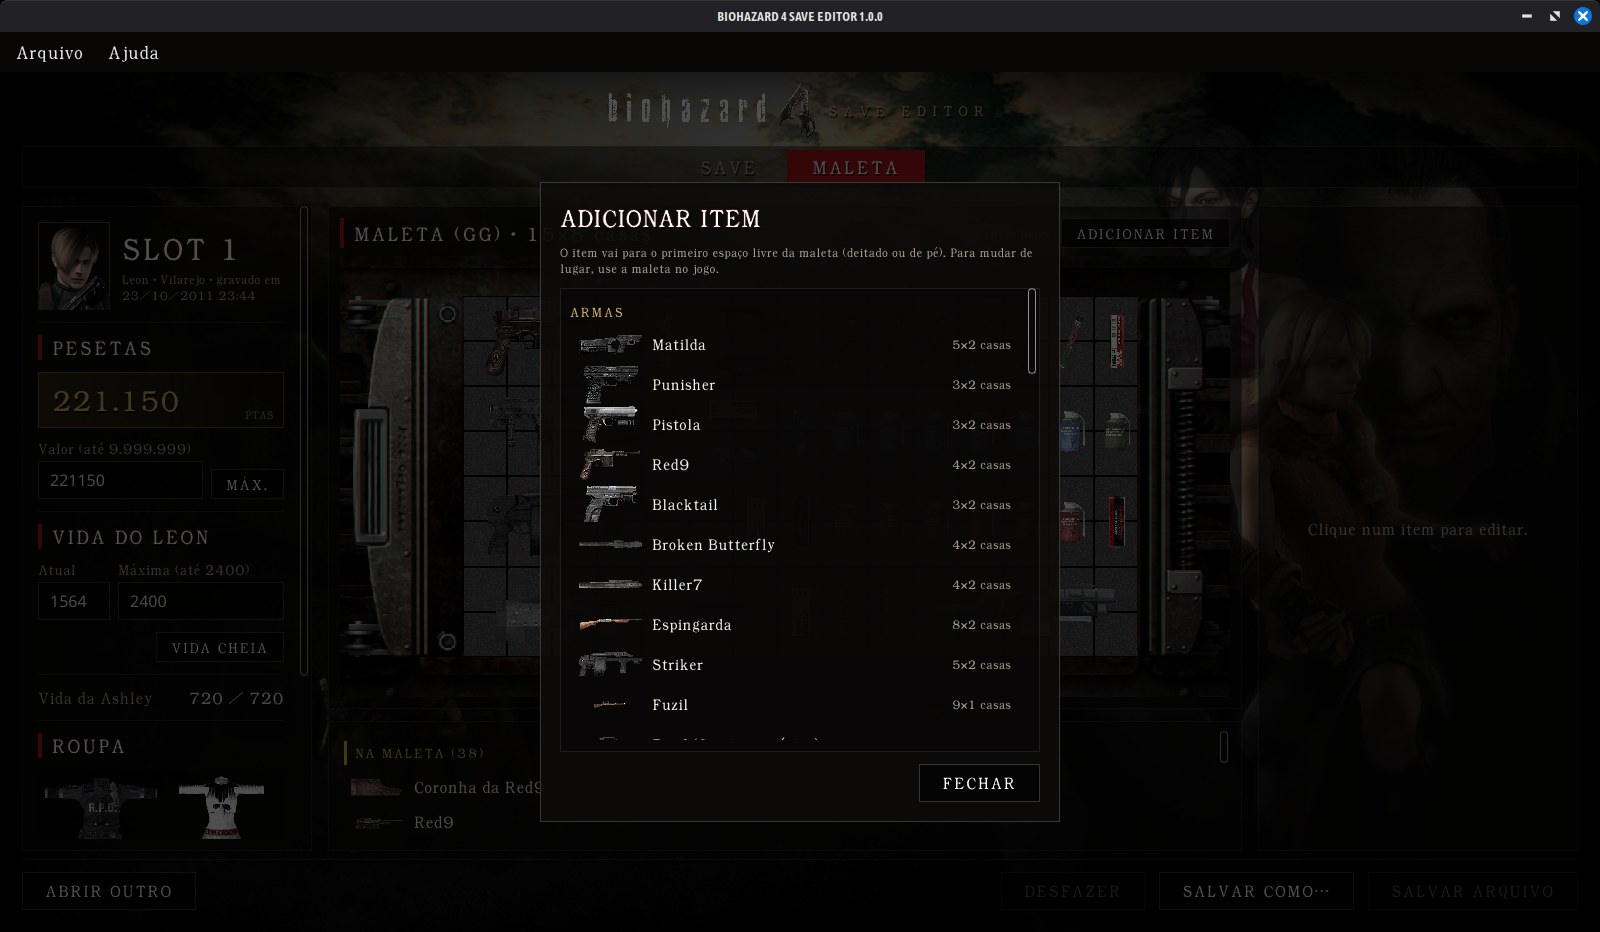
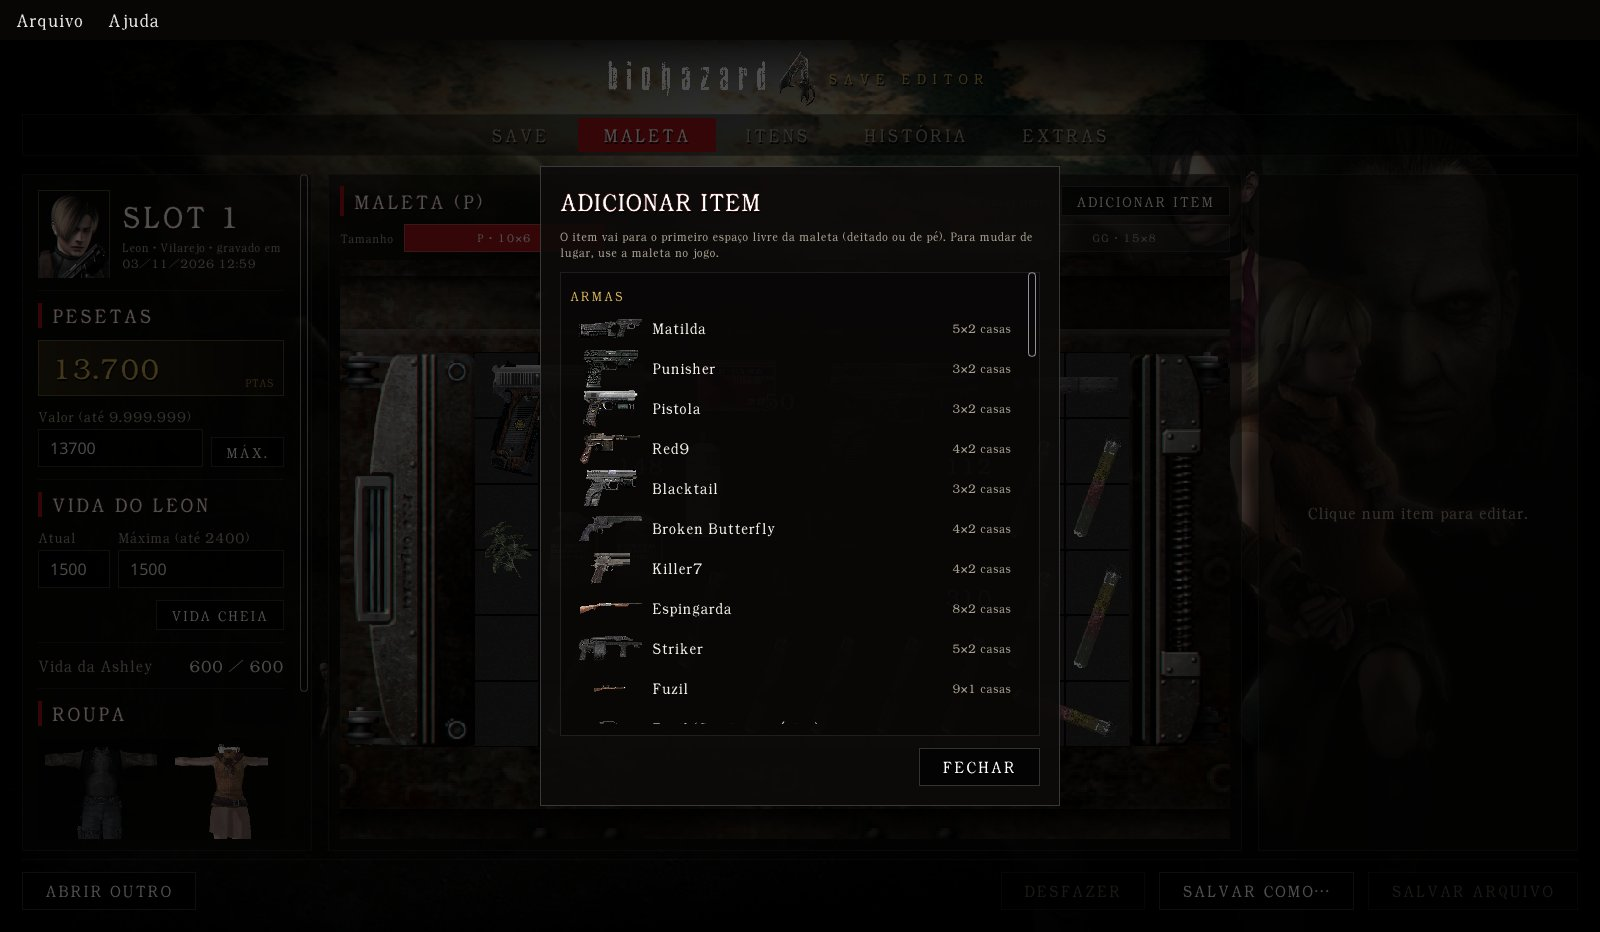
Abas Itens e História, tamanho da maleta e prints novos

diff --git a/README.md b/README.md
@@ -40,7 +40,9 @@ slot escolhido.
 | Aba | O que oferece |
 |---|---|
 | **Save** | Os 20 slots com a imagem do capítulo onde foram gravados (vilarejo, castelo, ilha ou Separate Ways), data, pesetas e vida. O slot escolhido aparece em destaque, com as roupas em uso. Embaixo, o arquivo: perfil, console, dispositivo e as conferências (verificações dos slots, hashes e assinatura). |
-| **Maleta** | Pesetas (até 9.999.999), vida atual e máxima do Leon ou da Ada (até 2.400), vida da Ashley e a **roupa** do slot. No meio, a maleta desenhada como no jogo, com cada item no seu lugar, e a lista de todos os itens do slot (maleta, tesouros, itens-chave e arquivos). À direita, o editor do item escolhido. |
+| **Maleta** | Pesetas (até 9.999.999), vida atual e máxima do Leon ou da Ada (até 2.400), vida da Ashley e a **roupa** do slot. No meio, a maleta desenhada como no jogo, com cada item no seu lugar, e a escolha do tamanho (P, M, G ou GG). À direita, o editor do item escolhido. |
+| **Itens** | A lista dos itens do slot (maleta, tesouros, itens-chave e tampinhas) e, ao lado, o editor do item escolhido. |
+| **História** | Os 39 arquivos do jogo para consulta, traduzidos para o português, com as artes originais: campanha do Leon, manuais e Separate Ways. Marca os que o slot escolhido já coletou. Só leitura: não muda o save. |
 | **Extras** | Os **desbloqueios** do arquivo (os 16 que o jogo libera ao zerar): modos de jogo (Profissional, Separate Ways, Assignment Ada, The Mercenaries, Ada's Report), os personagens do Mercenaries, as roupas especiais e as armas especiais do Mercador, cada um com a arte do jogo. E o **Round** do slot: do Round 02 em diante o Mercador vende as armas especiais, a Matilda e o Lança-foguetes Infinito. |
 
 **Itens**
@@ -52,8 +54,9 @@ slot escolhido.
 - **Munição, ervas, granadas e tesouros:** quantidade, até o máximo que o
   jogo aceita em cada espaço.
 - **Adicionar item:** os 268 itens do jogo, com figura e tamanho em casas. O
-  item vai para o primeiro espaço livre da maleta, deitado ou de pé. Inclui as
-  maletas maiores (P, M, G e GG, até 15×8 casas).
+  item vai para o primeiro espaço livre da maleta, deitado ou de pé.
+- **Tamanho da maleta:** P, M, G ou GG (até 15×8 casas), na aba Maleta. Só
+  diminui se todos os itens continuarem dentro.
 - **Tirar da maleta:** qualquer item, menos a arma equipada (essa troca é com
   o jogo).
 
@@ -75,10 +78,10 @@ o jogo refaz a roupa a partir dela.
 | | |
 |---|---|
 | ![Aba Save](docs/prints/save.jpg) | ![Aba Maleta](docs/prints/maleta.jpg) |
-| ![Adicionar item](docs/prints/adicionar.jpg) | ![Tela inicial](docs/prints/inicio.jpg) |
-| ![Aba Extras](docs/prints/extras.jpg) | |
+| ![Aba Itens](docs/prints/itens.jpg) | ![Aba História](docs/prints/historia.jpg) |
+| ![Aba Extras](docs/prints/extras.jpg) | ![Adicionar item](docs/prints/adicionar.jpg) |
 
-As capturas usam um save com perfil, console e dispositivo fictícios.
+As capturas usam um save do PC.
 
 ---
 
@@ -178,6 +181,7 @@ Saves gravados pelo código do editor foram carregados num Xbox 360 real:
   ficaram com **munição infinita**;
 - a maleta GG adicionada passou a valer no jogo (15×8 casas), com a arma e a
   munição novas no lugar;
+- a troca da maleta para GG pela aba Maleta também valeu no console;
 - a escolha de roupa (Especial 2) carregou Leon de gângster e Ashley de
   armadura.
 

diff --git a/CHANGELOG.md b/CHANGELOG.md
@@ -37,6 +37,21 @@ As correções entram na própria 1.0.0 (o download da release é atualizado).
   aparecem no jogo, igual ao PC: Separate Ways, Assignment Ada, The
   Mercenaries com os 5 personagens, Ada's Report, a Dificuldade Profissional,
   as roupas e as armas do Mercador.
+- **03/11 — Botão TIRAR DA MALETA:** em janelas menores, a rolagem do painel
+  do item não chegava ao fim e escondia o botão. O botão agora fica fixo no
+  rodapé do painel, e a rolagem alcança todas as opções da arma.
+- **03/11 — Aba ITENS:** a lista de todos os itens do slot saiu da aba Maleta
+  e ganhou uma aba própria, com o editor do item ao lado. A maleta desenhada
+  ficou maior.
+- **03/11 — Aba HISTÓRIA:** os 39 arquivos do jogo para consulta, traduzidos
+  para o português, com as artes originais: campanha do Leon, manuais e
+  Separate Ways. Marca os que o slot escolhido já coletou. Os arquivos saíram
+  da lista da aba Itens, mas continuam no save.
+- **03/11 — Tamanho da maleta:** a aba Maleta agora escolhe a maleta do slot:
+  P, M, G ou GG. Só diminui se todos os itens continuarem dentro. As maletas
+  não apareciam na janela Adicionar item, ao contrário do que dizia o LEIA-ME.
+- **03/11 — Aba Save sem rolagem no painel direito:** o slot escolhido e o
+  arquivo aparecem inteiros, em qualquer tamanho de janela.
 
 ### Saves
 - **Resident Evil 4 HD do Xbox 360:** só abre pacotes CON de save do jogo
@@ -57,8 +72,7 @@ As correções entram na própria 1.0.0 (o download da release é atualizado).
 - **Quantidade** de munição, ervas, granadas e tesouros, até o máximo que o
   jogo aceita em cada espaço.
 - **Adicionar item:** os 268 itens do jogo, com figura e tamanho em casas, no
-  primeiro espaço livre da maleta (deitado ou de pé), inclusive as maletas P,
-  M, G e GG.
+  primeiro espaço livre da maleta (deitado ou de pé).
 - **Tirar da maleta** qualquer item, menos a arma equipada. Acessórios
   montados na arma tirada ficam soltos, como o jogo grava.
 
